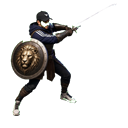
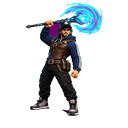
art(Style 2): Marcel „down“ komplett neu – 18 Zauberstab-Kandidaten (#299)
Attack/Hit/Death je 6 Frames gegen die Zauberstab-Referenz 20261115; ersetzt Schwert/Schild aus #242 und b64a6e2. pixel_gate pass ×3, Packer 20/16/36, Magenta 0, 24 Dateien SHA-verifiziert. art_approval=approved (Malle, 15.11.2026). Superseded: #291.

diff --git a/docs/art/marcel-wand-down-candidates-20261115.md b/docs/art/marcel-wand-down-candidates-20261115.md
@@ -1,0 +1,60 @@
+# Denkmal TD2 V5 · Marcel „down" Zauberstab-Kandidaten (Attack/Hit/Death) – 18 RGBA-Kandidaten
+
+Stand: 15. November 2026 · Issue #205 · Referenz: `originals/marcel-der-beschuetzer-reference-20261115.png` (Draft-PR #287) · **keine Runtime-Integration, `art_approval=manual-required`**
+
+## Produktion
+
+- Erste komplette Kandidatenproduktion gegen die **Zauberstab-Referenz vom 15.11.2026** (kein Schwert, kein Löwenschild, keine Laterne). 18 eigenständige Frames (je Pose einzeln illustriert, verkettete Bildbearbeitung pro Sequenz), flacher Magenta-Hintergrund (#FF00FF), Chroma-Key-Freistellung mit Kantenumrechnung, Spill-Unterdrückung, Pivot-Normalisierung auf `[64, 116]`, einheitliche Skalierung je Sequenz.
+- **Attack:** 00 Guard (Zauberstab tief), 01 Ausholen (Glow intensiviert sich), 02 Zauberbeginn (Energie fließt), 03 Zauberschlag (blauer Magie-Ausbruch an der Kristallspitze), 04 Ausschwingen, 05 Rückkehr zur Guard.
+- **Hit:** 00 Guard (identische Guard-Quelle wie Attack/00), 01 leichtes Zurückweichen, 02 starker Rückstoß (Zauberstabarm weit ausgeschlagen), 03 Abfang-Crouch (Glow schwach), 04 Aufrichten, 05 Guard.
+- **Death (familienfreundlich, ohne Blut):** 01 Absinken, 02 Ein-Knie, 03 seitliches Absinken, 04 liegend mit Zauberstab daneben, 05 Endpose, Glow fast erloschen. Höhenverlauf stetig fallend (max. Übergang 36 px im 128er-Raum, Grenzwert 52 px).
+- Hit/00 wurde nach einer 128-px-Sichtprüfung („schwertartig") durch die in zwei Auflösungen verifizierte Attack/00-Guard-Quelle ersetzt; Mid-Ketten-Frames (hit/02, hit/03) waren in Vollauflösung sauber als Zauberstab bestätigt.
+
+## Technische Prüfung
+
+- `tools/verify-hero-attack-sheet.py` auf allen drei 3×2-Bögen (1536×1024 RGBA, 512-px-Zellen): **je `pixel_gate=pass`, 0 Issues**; Fußpivot exakt 464/512 (= 116/128).
+- Programmatic Magenta-Scan aller 18 Kandidaten: **0 nahe-Magenta-Pixel** (Abstand < 90, Alpha > 200).
[1 lines of base64/hex data omitted]
+- Binärübertragung per temporärem Base64-Handoff mit `sha256sum -c`-Gate; alle 24 Dateien (18 Kandidaten, 3 Bögen, 3 Previews) per Git-Blob-SHA byte-identisch verifiziert.
+- **Sichtprüfung (Vision-Modell):** Vollauflösung: attack/00, attack/03, hit/02, hit/03, death/04, death/05 konform (ein Zauberstab, keine alten Waffen, kein Laterne, kein Umhang, kein Text); 128-px: attack/00, death/04 konform. Die restlichen Frames (attack/01–02/04–05, hit/01/04–05, death/00–03) wurden nicht einzeln vision-geprüft und sind Teil der **manuellen Abnahme**.
+
+## Mitgelieferte Abnahme-Dateien
+
+- `marcel-{attack,hit,death}-down-concept-3x2.png`: geprüfte 3×2-Bögen (512-px-Zellen) im selben Ordner.
+- `marcel-{attack,hit,death}-down-preview-6x1.png`: 6×1-Vorschauen in Spielgröße.
+
+## Status und Grenzen
+
+- **`art_approval=manual-required`**: Pixel-Gate ist keine Kunstfreigabe. Die visuelle Identitäts- und Richtungsabnahme durch Malle steht aus.
+- Dieser Satz **ersetzt** die Schwert/Schild-Kandidaten aus PR #242 (Attack „down") und Draft-PR #266 gemäß Übergangsregel des Referenz-Locks; PR #266 sollte nach Merge dieses PRs geschlossen werden.
+- Keine Änderungen an `dist/`, aktiven Manifesten, Save-Keys, Leveln oder Kampfregeln; kein Merge ohne ausdrückliche Freigabe. **Merge-Reihenfolge:** Referenz-PR #287 zuerst, danach dieser PR.
+- Nach Abnahme: `tools/verify-hero-direction-candidate.py`, Registrierung, Opt-in-Spieltest; Chromium-Abnahme und echte Android-4-GB-Prüfung: **nicht durchgeführt**.
+
+## SHA-256-Manifest
+
+| Datei | SHA-256 |
+| --- | --- |
[24 lines of base64/hex data omitted]
